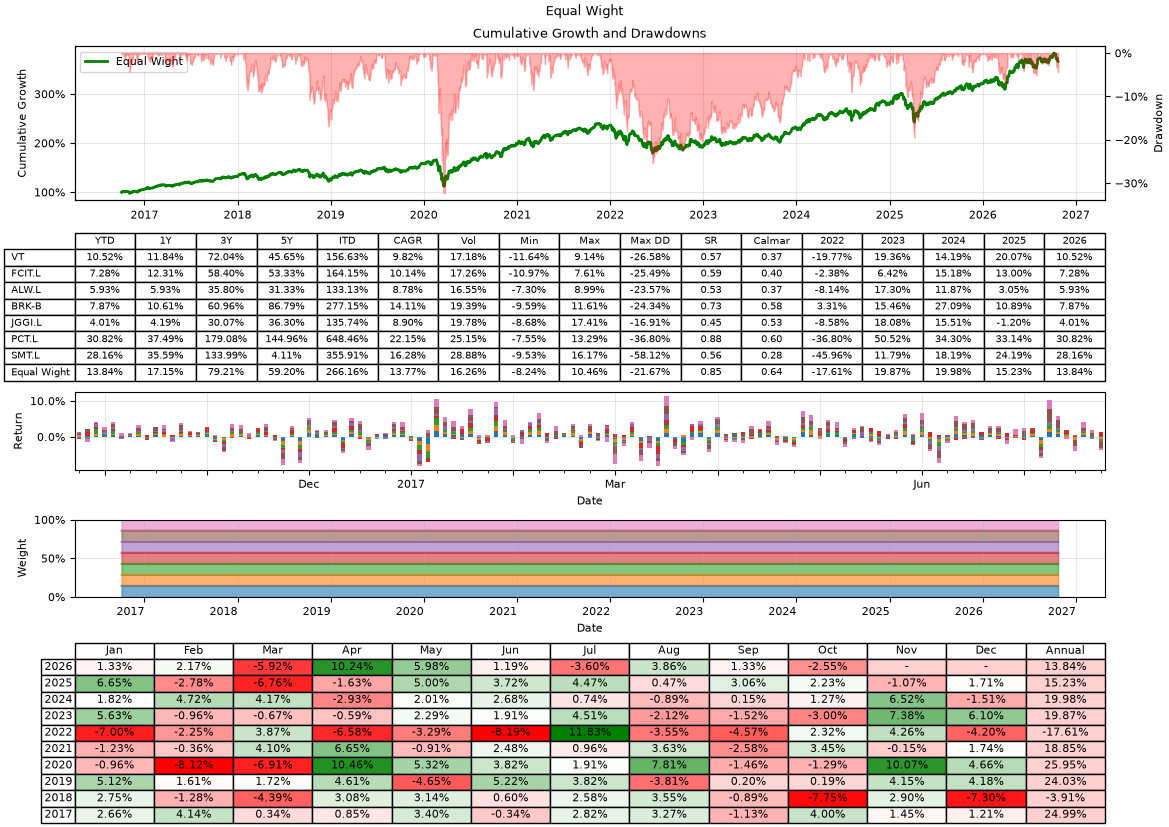
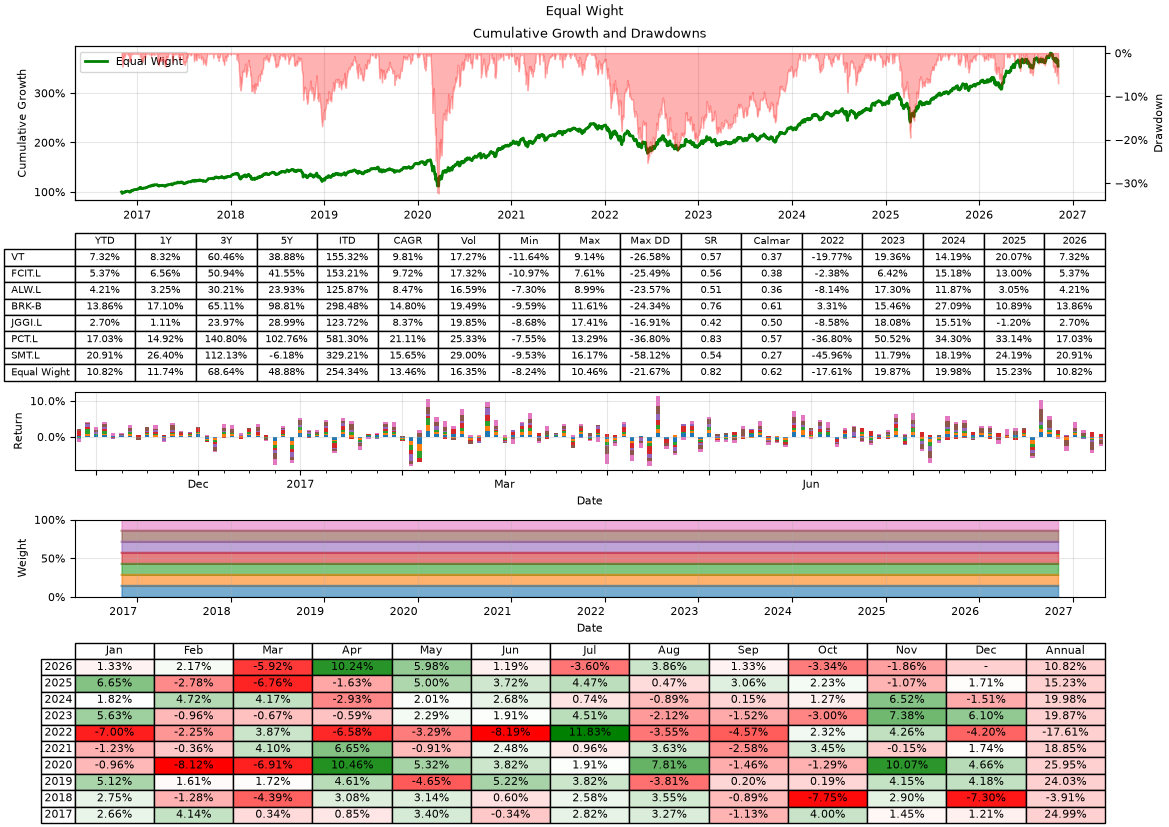
update baseline. fix typing errors

diff --git a/src/pypension/main.py b/src/pypension/main.py
@@ -1,3 +1,5 @@
+import warnings
+
 import matplotlib.pyplot as plt
 import pandas as pd
 
@@ -31,27 +33,28 @@ def main() -> None:
 
     # download close prices
     tickers: list[str] = list(weights.keys())
+    tickers_vt = ["VT", "VTI"]
+    tickers_download = list(set(tickers) | set(tickers_vt))
 
-    for ticker in ["VT", "VTI"]:
-        if ticker not in tickers:
-            tickers.append(ticker)
-
-    df_data = download(tickers, start_dttm=START_DTTM, end_dttm=END_DTTM)
+    with warnings.catch_warnings():
+        warnings.filterwarnings("ignore", category=pd.errors.Pandas4Warning)
+        df_data = download(tickers_download, start_dttm=START_DTTM, end_dttm=END_DTTM)
 
     # compute daily percentage changes (in decimal)
-    df_returns = df_data["Close"].apply(lambda x: x[~x.isna()].pct_change())
+    df_close: pd.DataFrame = df_data.loc[:, pd.IndexSlice["Close"]]
+    df_returns = df_close.apply(lambda x: x[~x.isna()].pct_change())
 
     # define a (month end) rebalance schedule
     ser_rebalance_dates = pd.date_range(start=START_DTTM, end=END_DTTM, freq="BME")
 
     # define portfolio allocation methods
     portfolios: dict[str, AbstractPortfolio] = {
-        "Fixed Weight": FixedWeight(df_returns.loc[:, weights.keys()], weights=weights),
-        "VTI": RiskParity(df_returns.loc[:, ["VTI", "VT"]]),
-        "HRP": HierarchicalRiskParity(df_returns.loc[:, weights.keys()]),
-        "Risk Parity": RiskParity(df_returns.loc[:, weights.keys()]),
-        "Tangency Portfolio": TangencyPortfolio(df_returns.loc[:, weights.keys()]),
-        "Equal Wight": EqualWight(df_returns.loc[:, weights.keys()]),
+        "Fixed Weight": FixedWeight(df_returns.loc[:, tickers], weights=weights),
+        "VTI": RiskParity(df_returns.loc[:, tickers_vt]),
+        "HRP": HierarchicalRiskParity(df_returns.loc[:, tickers]),
+        "Risk Parity": RiskParity(df_returns.loc[:, tickers]),
+        "Tangency Portfolio": TangencyPortfolio(df_returns.loc[:, tickers]),
+        "Equal Wight": EqualWight(df_returns.loc[:, tickers]),
     }
 
     for i, (label, portfolio) in enumerate(portfolios.items(), start=1):

diff --git a/src/pypension/config.py b/src/pypension/config.py
@@ -1,4 +1,5 @@
 import importlib.resources
+from pathlib import Path
 from zoneinfo import ZoneInfo
 
 import pandas as pd
@@ -34,4 +35,4 @@ TIME_ZONE = ZoneInfo("UTC")
 END_DTTM = pd.Timestamp.now(tz=TIME_ZONE).normalize()
 START_DTTM = (END_DTTM - pd.DateOffset(years=10)) - pd.offsets.MonthBegin()
 
-PLOT_DIR = importlib.resources.files(__package__).joinpath("plots")
+PLOT_DIR = Path(importlib.resources.files(__package__).joinpath("plots"))
